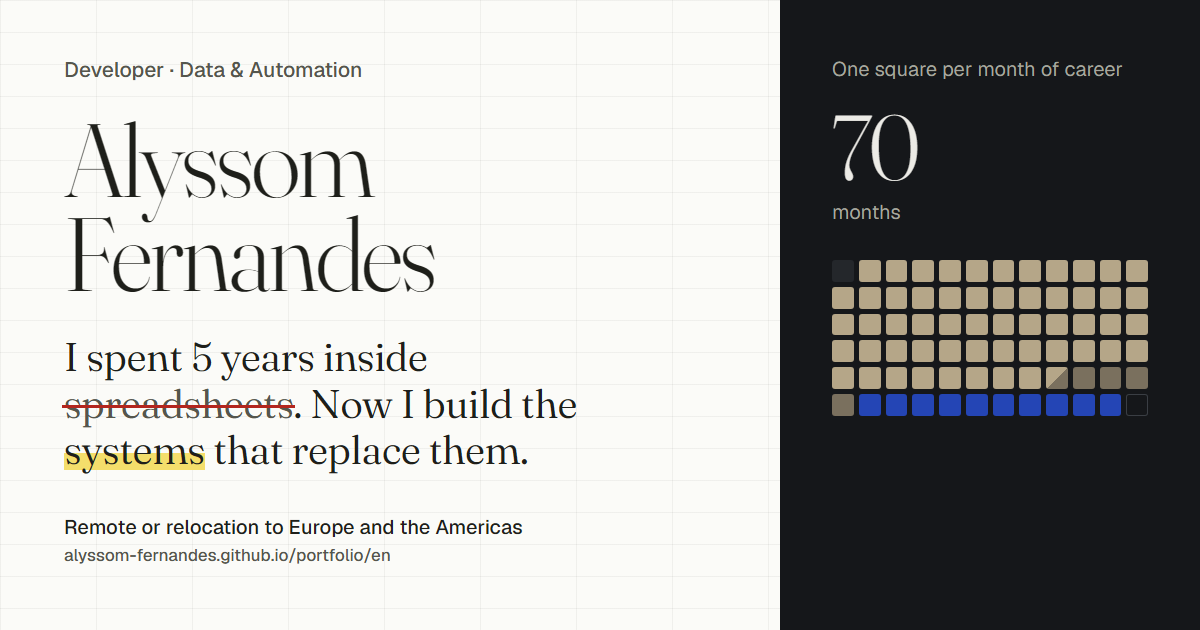
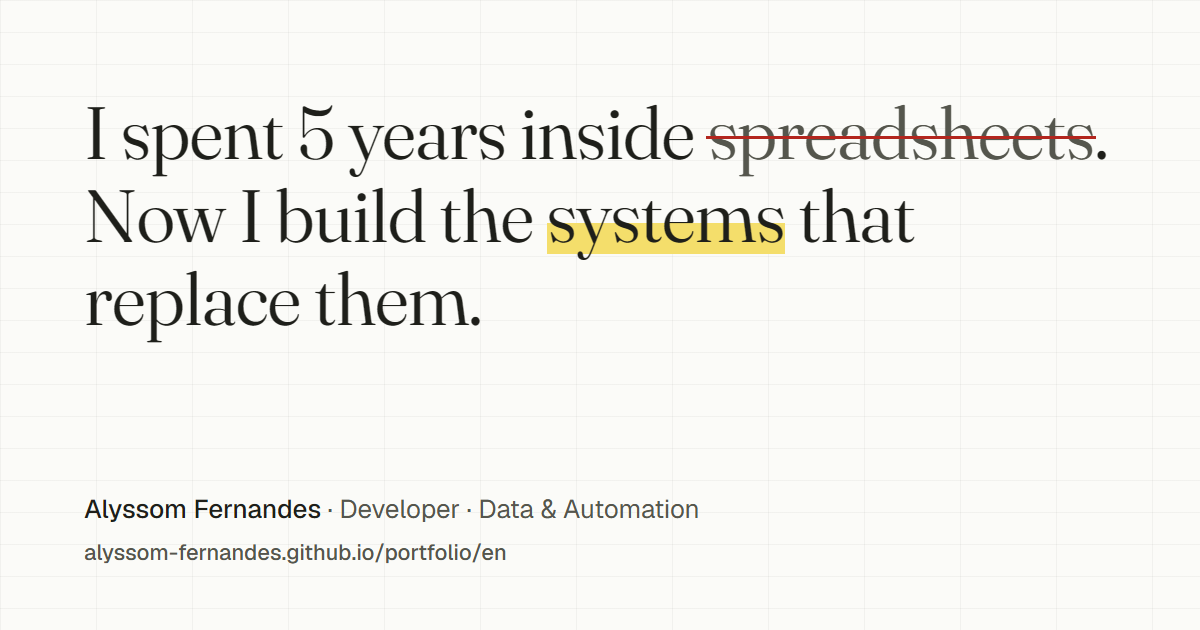
Capas de compartilhamento minimalistas, com a frase
As imagens que aparecem ao compartilhar o link (uma por idioma) passam a mostrar só a frase, o nome com o título e o endereço do idioma, sem a contagem de meses, que envelhecia todo mês. O README explica o parâmetro ?hoje=AAAA-MM.

diff --git a/README.md b/README.md
@@ -71,7 +71,8 @@ py -m http.server 5173
 ```
 
 Depois abra http://127.0.0.1:5173. Para ver um estado sem rolar a página, use `?cena=<id>&progresso=<0 a 1>`
-(ids: `abertura`, `trajetoria`, `projetos`, `habilidades`, `contato`).
+(ids: `abertura`, `trajetoria`, `projetos`, `habilidades`, `contato`). A grade de meses é gerada até o mês da
+publicação e o navegador completa os meses seguintes; para simular outro mês, use `?hoje=AAAA-MM`.
 
 ## Gerar o site
 
